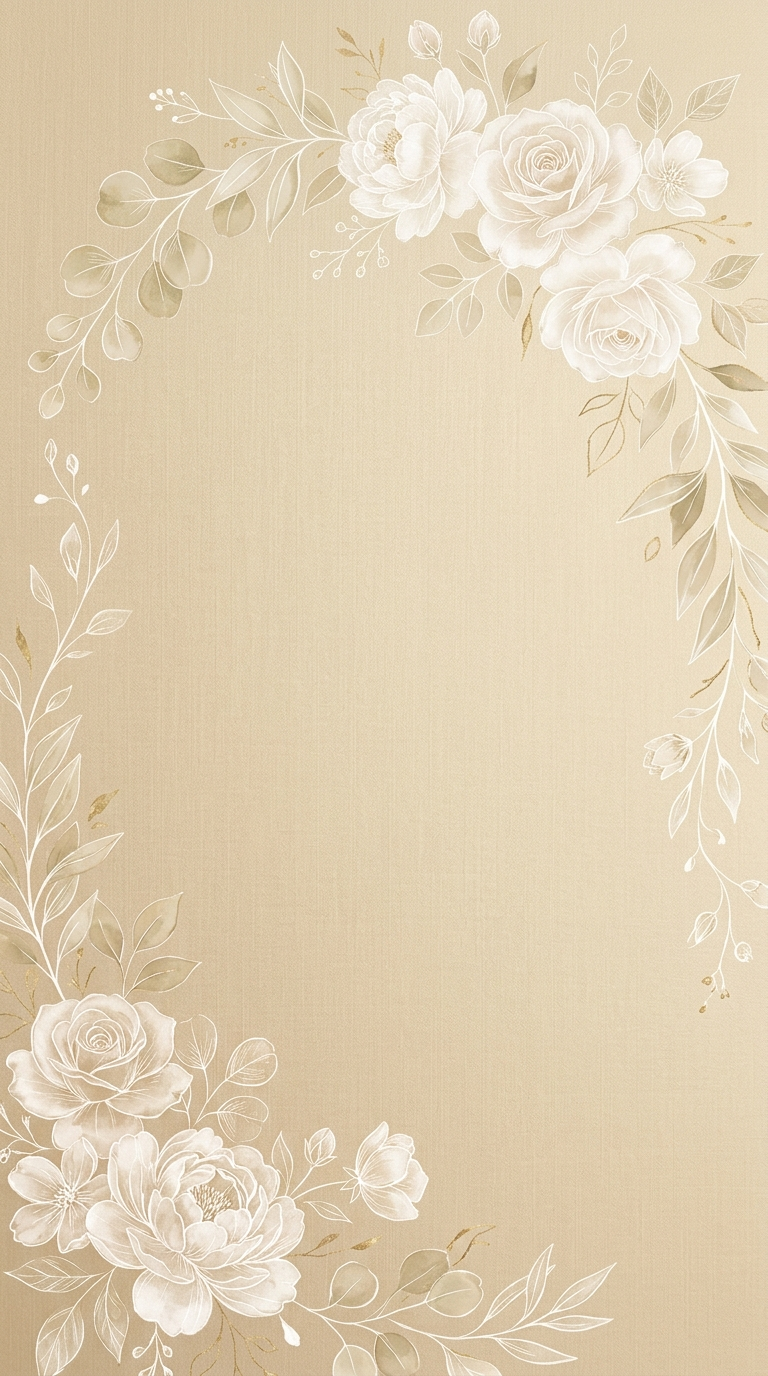
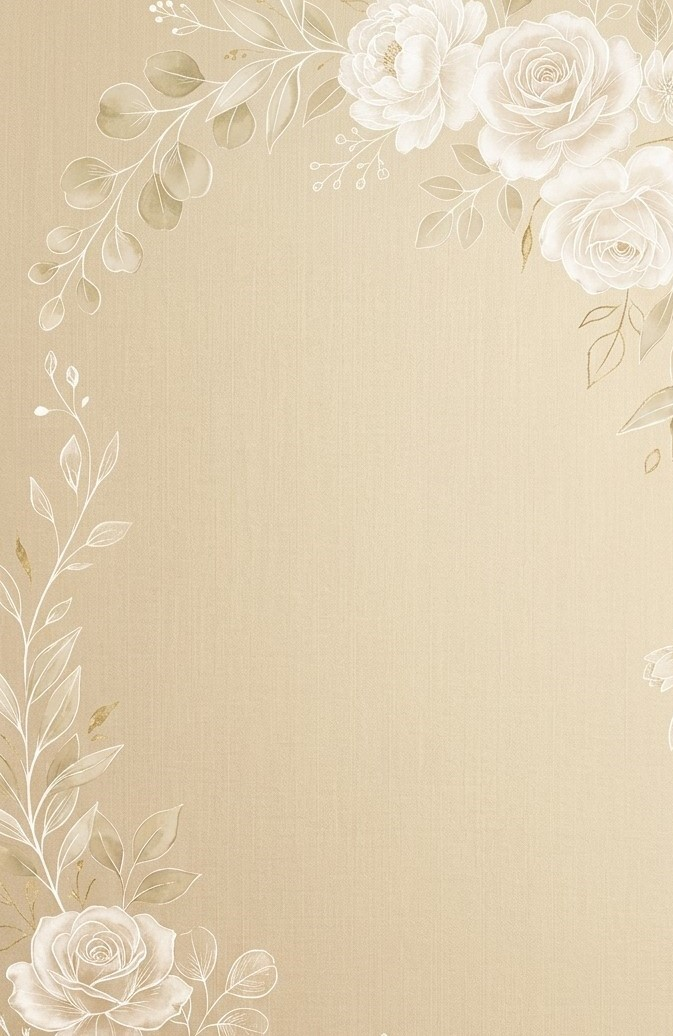
first commitnn

diff --git a/index.html b/index.html
@@ -1935,6 +1935,63 @@
 
 
 
+
+                          <div class="foto-item"
+                            style="width: 280px; height: 280px; flex-shrink: 0; overflow: hidden; border-radius: 15px; box-shadow: 0 10px 20px rgba(0,0,0,0.08);">
+                            <img src="WhatsApp Image 2026-10-03 at 17.57.31.jpeg" alt="Nuestra foto 4"
+                                style="width: 100%; height: 100%; object-fit: cover; display: block; pointer-events: none;">
+                        </div>
+                          <div class="foto-item"
+                            style="width: 280px; height: 280px; flex-shrink: 0; overflow: hidden; border-radius: 15px; box-shadow: 0 10px 20px rgba(0,0,0,0.08);">
+                            <img src="WhatsApp Image 2026-10-03 at 18.29.00.jpeg" alt="Nuestra foto 4"
+                                style="width: 100%; height: 100%; object-fit: cover; display: block; pointer-events: none;">
+                        </div>
+                          <div class="foto-item"
+                            style="width: 280px; height: 280px; flex-shrink: 0; overflow: hidden; border-radius: 15px; box-shadow: 0 10px 20px rgba(0,0,0,0.08);">
+                            <img src="WhatsApp Image 2026-10-03 at 18.29.00 (1).jpeg" alt="Nuestra foto 4"
+                                style="width: 100%; height: 100%; object-fit: cover; display: block; pointer-events: none;">
+                        </div>
+                          <div class="foto-item"
+                            style="width: 280px; height: 280px; flex-shrink: 0; overflow: hidden; border-radius: 15px; box-shadow: 0 10px 20px rgba(0,0,0,0.08);">
+                            <img src="WhatsApp Image 2026-10-03 at 18.29.01.jpeg" alt="Nuestra foto 4"
+                                style="width: 100%; height: 100%; object-fit: cover; display: block; pointer-events: none;">
+                        </div>
+
+
+
+
+                          <div class="foto-item"
+                            style="width: 280px; height: 280px; flex-shrink: 0; overflow: hidden; border-radius: 15px; box-shadow: 0 10px 20px rgba(0,0,0,0.08);">
+                            <img src="WhatsApp Image 2026-10-03 at 18.29.01 (1).jpeg" alt="Nuestra foto 4"
+                                style="width: 100%; height: 100%; object-fit: cover; display: block; pointer-events: none;">
+                        </div>
+                          <div class="foto-item"
+                            style="width: 280px; height: 280px; flex-shrink: 0; overflow: hidden; border-radius: 15px; box-shadow: 0 10px 20px rgba(0,0,0,0.08);">
+                            <img src="WhatsApp Image 2026-10-03 at 18.29.01 (2).jpeg" alt="Nuestra foto 4"
+                                style="width: 100%; height: 100%; object-fit: cover; display: block; pointer-events: none;">
+                        </div>
+                          <div class="foto-item"
+                            style="width: 280px; height: 280px; flex-shrink: 0; overflow: hidden; border-radius: 15px; box-shadow: 0 10px 20px rgba(0,0,0,0.08);">
+                            <img src="WhatsApp Image 2026-10-03 at 18.30.32.jpeg" alt="Nuestra foto 4"
+                                style="width: 100%; height: 100%; object-fit: cover; display: block; pointer-events: none;">
+                        </div>
+                          <div class="foto-item"
+                            style="width: 280px; height: 280px; flex-shrink: 0; overflow: hidden; border-radius: 15px; box-shadow: 0 10px 20px rgba(0,0,0,0.08);">
+                            <img src="WhatsApp Image 2026-10-03 at 18.30.33.jpeg" alt="Nuestra foto 4"
+                                style="width: 100%; height: 100%; object-fit: cover; display: block; pointer-events: none;">
+                        </div>
+
+                          <div class="foto-item"
+                            style="width: 280px; height: 280px; flex-shrink: 0; overflow: hidden; border-radius: 15px; box-shadow: 0 10px 20px rgba(0,0,0,0.08);">
+                            <img src="WhatsApp Image 2026-10-03 at 18.30.33 (1).jpeg" alt="Nuestra foto 4"
+                                style="width: 100%; height: 100%; object-fit: cover; display: block; pointer-events: none;">
+                        </div>
+                          <div class="foto-item"
+                            style="width: 280px; height: 280px; flex-shrink: 0; overflow: hidden; border-radius: 15px; box-shadow: 0 10px 20px rgba(0,0,0,0.08);">
+                            <img src="WhatsApp Image 2026-10-03 at 18.30.33 (2).jpeg" alt="Nuestra foto 4"
+                                style="width: 100%; height: 100%; object-fit: cover; display: block; pointer-events: none;">
+                        </div>
+
                     </div>
                 </div>
             </div>
